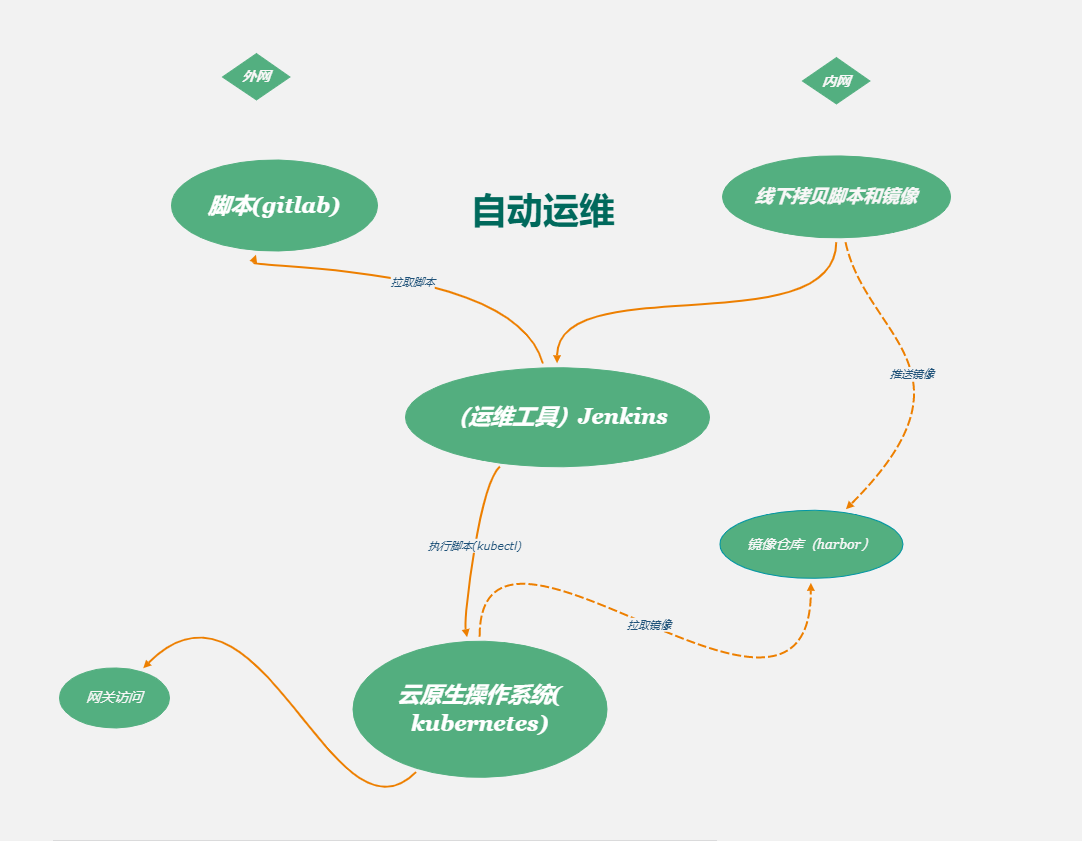
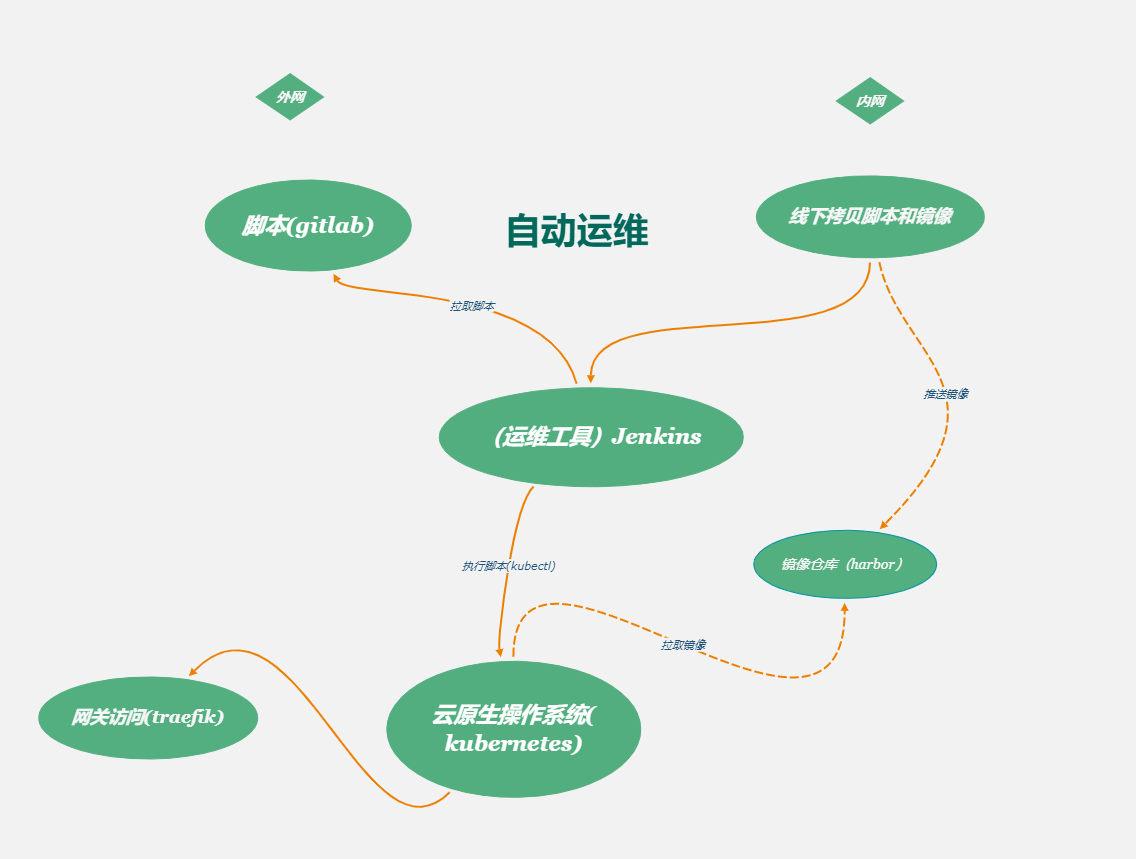
修改部署对外文档

diff --git a/cloud-native/handbook.md b/cloud-native/handbook.md
@@ -8,6 +8,24 @@
 | k8s-node1 | CentOS-7 | 8核16g |  |
 | k8s-node2 | CentOS-7 | 8核16g |  |
 | commonNode | CentOS-7 | 8核16g | 提供镜像仓库，nuget私有包，gitlab  |
+## 软件环境
+
+| 软件名称 | 版本 | 介绍 | 
+| :--- | --- |  --- | --- | 
+| gitlab | 11.0.1-ce.0 | 代码托管平台,用来管理开发人员提交的代码。
+| jenkins | jenkins/jenkins:lts | 用于持续、自动的构建/测试软件项目。
+| kubernetes| 1.18.13 | 现容器集群的自动化部署、自动扩缩容、维护,等于云原生操作系统。
+| harbor|  2.1.2 | 开源的容器镜像仓库,这里用来管理项目编排的所有镜像。
+| traefik|1.7.28| 一个云原生的新型的 HTTP 反向代理、负载均衡软件。
+ 
+
+## 集群目标
+ 1. 实现所有服务高可用，在服务器宕机后，不间断的提供服务。
+ 2. 实现集群对大数据，大流量支持(通过扩展节点方式可以很轻松的增加整个集群的负载能力)。
+ 3. 实现异常信息迅速定位(集群层次的日志，报警，监控).
+ 4. 实现强大的自愈能力，问题被修复后，集群能自动将服务重新安装期望的状态运行。
+ 5. 极大简化运维人员工作。
+
 
 ## 运维工作
   
